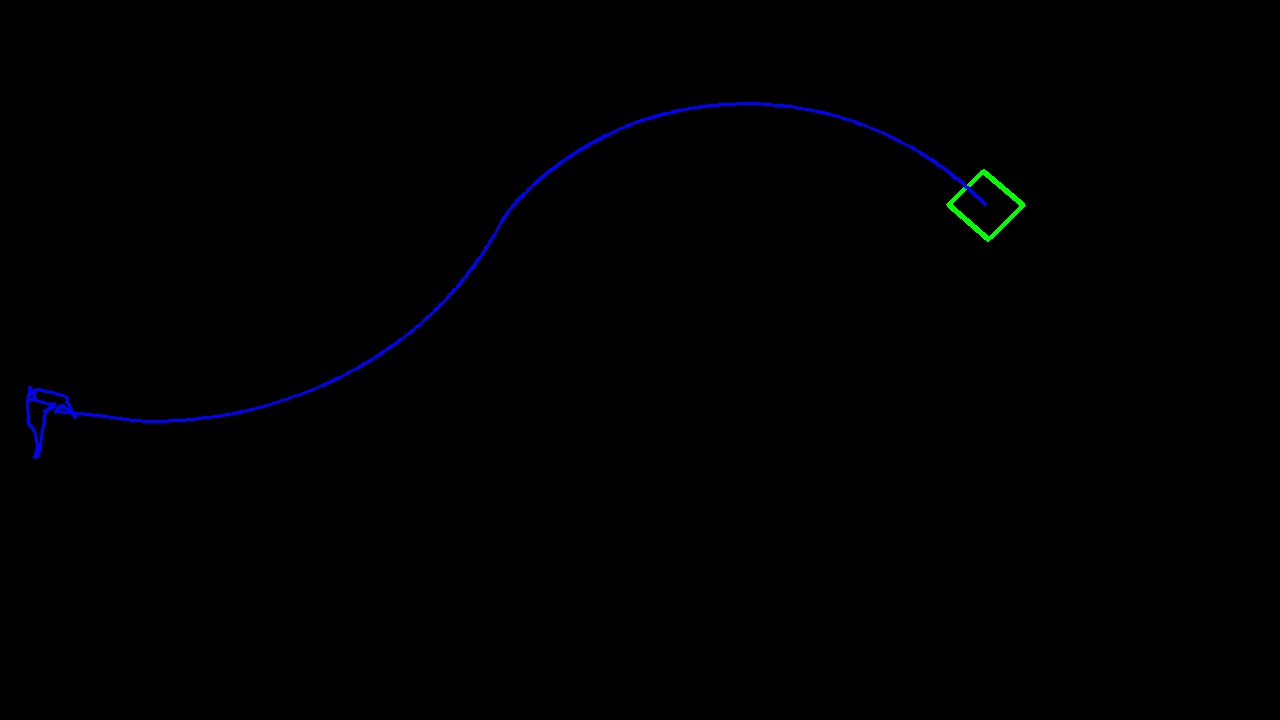
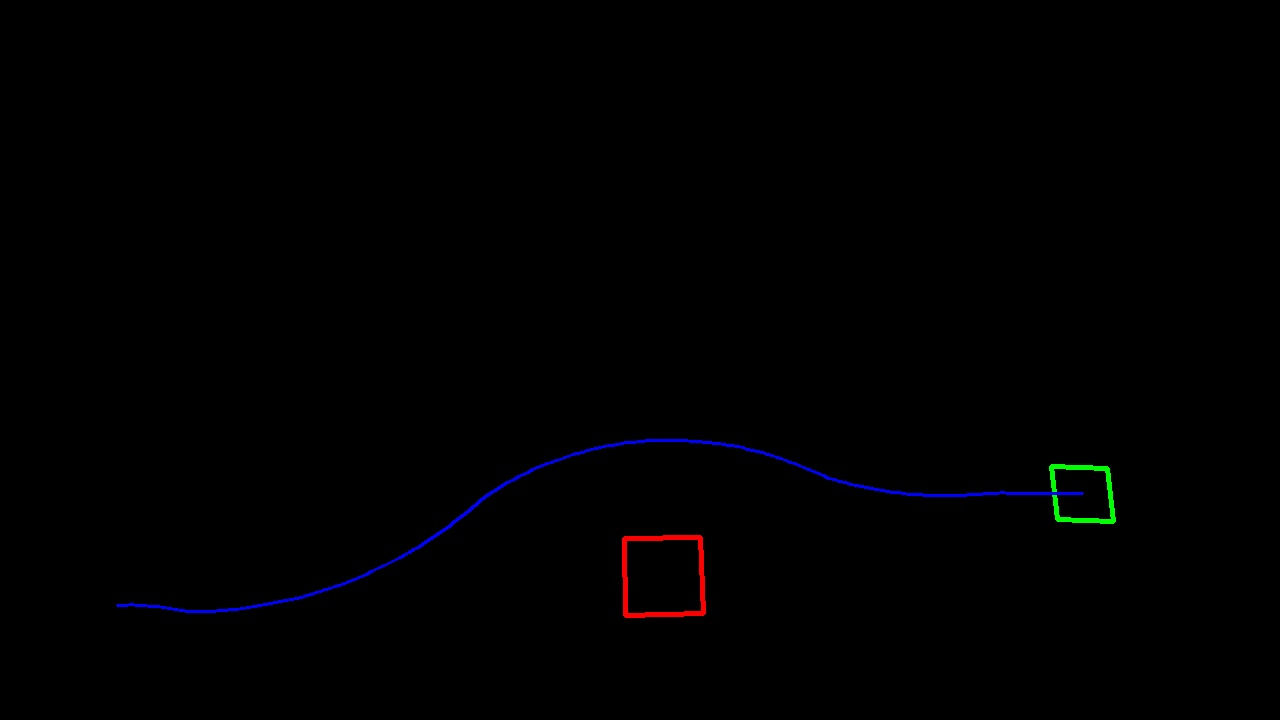
final edits

diff --git a/live_april.py b/live_april.py
@@ -23,7 +23,7 @@ detector = apriltag.Detector(options)
 tag_size = 6  # cm
 focal_length = 60  # pixels
 car_tag_id = 0 
-A_tag_id = 1
+A_tag_id = 8
 B_id_tag = 2
 C_id_tag = 4
 target_tag_id = A_tag_id
@@ -40,6 +40,7 @@ grid_size = (40, 30) # Define the size of the grid that we will run a* from
 car_path = [] # Initialize empty path for tag ID 0
 drawing = False # true if mouse is pressed
 pt1_x , pt1_y = None , None
+in_front_of_car = ()
 
 try:
     ser = serial.Serial(port = '/dev/tty.usbserial-DN062958', baudrate=115200,timeout=None) # sets up seial port
@@ -84,6 +85,7 @@ while True:
         if tag_id == car_tag_id:
             color = (0, 255, 0)  #green
             label = "Car"
+            in_front_of_car = (tag.center.astype(int)[0] + 100, tag.center.astype(int)[1])
         elif tag_id == A_tag_id:
             color = (0, 0, 255)  # Red
             label = "A"
@@ -218,10 +220,22 @@ for i in range(grid_size[0]):
                #try to fill in conservatively
                grid[i:i+1,  j:j+1] = 1
                #try to fill in an expanded boundary
-               grid[i-1:i+2,  j-1:j+2] = 1
+               grid[i:i+1,  j:j+1] = 1
 
-               #try to fill in an expanded boundary LARGER EXPANSIOn
-               grid[i-2:i+3,  j-2:j+3] = 1
+               grid[i:i+3,  j:j+3] = 1
+
+               grid[i:i+4,  j:j+4] = 1
+            except:
+                print("Expanded boundary failed")
+                pass
+
+            try:
+               #try to fill in conservatively
+               grid[i:i,  j-1:j] = 1
+               #try to fill in an expanded boundary
+               grid[i:i,  j-2:j] = 1
+
+               grid[i:i,  j-3:j] = 1
             except:
                 print("Expanded boundary failed")
                 pass
@@ -242,16 +256,27 @@ def print_grid():
 #RUNS ASTAR ON "grid" matrix with car_loc_cell, target_loc_cell, obstacle_locs_cell
 a_star_path_cell_to_target = a_star.astar(maze=grid, start=car_loc_cell, end=target_loc_cell, allow_diagonal_movement=True)
 
-#this is to make sure the line goes through the center
-a_star_path_pixels_to_target.append(car_loc_pixels)
 
 # converts cell coordinates back into pixel coordinates
 for cell in a_star_path_cell_to_target:
     a_star_path_pixels_to_target.append( cells_to_pixels(cell) )
 
+temp = []
+
+#this is to make sure the line goes through the center
+temp.append(car_loc_pixels)
+#temp.append((car_loc_pixels[0] + 20, car_loc_pixels[1]))
+
+for i in range(0, len(a_star_path_pixels_to_target)-2, 5):
+    temp.append(a_star_path_pixels_to_target[i])
+# add the end point
+temp.append(a_star_path_pixels_to_target[-1])
+temp[1] = in_front_of_car # might want to take this out
+a_star_path_pixels_to_target = temp
 
 
-rad = 1
+
+rad = 1 #radius starts at 1
 while True:
     try:
         P = pp.smooth(
@@ -342,6 +367,7 @@ car_center = [0,0]
 car_speed_vector = [0,0]
 old_car_center = [0,0]
 car_speed_error = 0
+ended = False
 
 while True:
 
@@ -373,7 +399,7 @@ while True:
             
             # here we set up a very easy and simple speed control
             setpoint = 3 # in pixels / frame
-            start_speed = 90 # in duty cycle out of 100 (0 is high, 100 is low)
+            start_speed = 85 # in duty cycle out of 100 (0 is high, 100 is low)
             kp = 2
             
             car_center = tag.center.astype(int)
@@ -460,6 +486,9 @@ while True:
     cv2.putText(frame,  "Steering error: %.1f" % pid.error, (5, 45), cv2.FONT_HERSHEY_SIMPLEX, 0.8, (0, 255, 0), 2)
     cv2.putText(frame,  "Steering: %.1f" % op, (5, 125), cv2.FONT_HERSHEY_SIMPLEX, 0.8, (0, 255, 0), 2)
 
+    if ended:
+        cv2.putText(frame,  "COMPLETE. CLAW MODE ACTIVATED.", (5, 150), cv2.FONT_HERSHEY_SIMPLEX, 0.8, (0, 255, 0), 2)
+
     # sends the steering direction to be sent to the pi
     try:
         send_to_pi.send_to_pi(ser,"steer:"+(str)(pid.output))
@@ -469,10 +498,10 @@ while True:
         pass
 
     # the target and the car are less than X pixels away
-    if math.dist(car_center,target_center) < 80:
+    if math.dist(car_center,target_center) < 80 and ended is False:
         send_to_pi.send_to_pi(ser,(str)("claw"))
         print((str)("auto stop, and claw"))
-        break
+        ended = True
 
     #shows the image: 
     cv2.imshow("AprilTag Tracking", frame)

diff --git a/line_follow.py b/line_follow.py
@@ -75,15 +75,29 @@ def get_car_to_path_distance(pid, car_corners, image):
         # 3 = bottom right
 
     # front left part of the car
-    l = car_corners[0]
+    fl = car_corners[0]
     # front right corner of the car
-    r = car_corners[1]
+    fr = car_corners[1]
+    #back left
+    bl = car_corners[2]
+    #back right
+    br = car_corners[3]
+
+    # choosing l and r to be an extended version of the front of the car, as to anticipate movements
+    l_dy = fl[1] - bl[1]
+    l_dx = fl[0] - bl[0]
+    r_dy = fr[1] - br[1]
+    r_dx = fr[1] - br[1]
+    
+    l = (fl[0] + l_dx, fl[1] + l_dy)
+    r = (fr[0] + r_dx, fr[1] + r_dy)
 
     dist = get_point_dist(l,r)
 
     p = [l[0], l[1]]
 
     #change in x and y pixel per step
+    #normalizes the vector between the two points
     dx = ((r[0]-l[0]) / dist)
     dy = ((r[1]-l[1]) / dist)
     #print("dx:", dx," dy:", dy)
